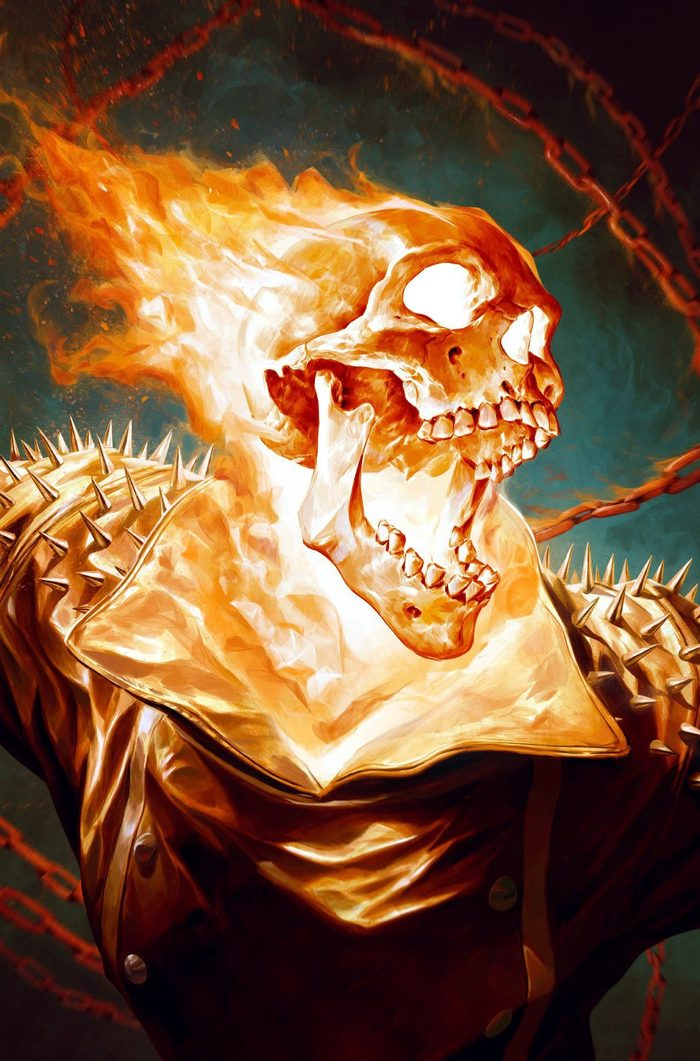
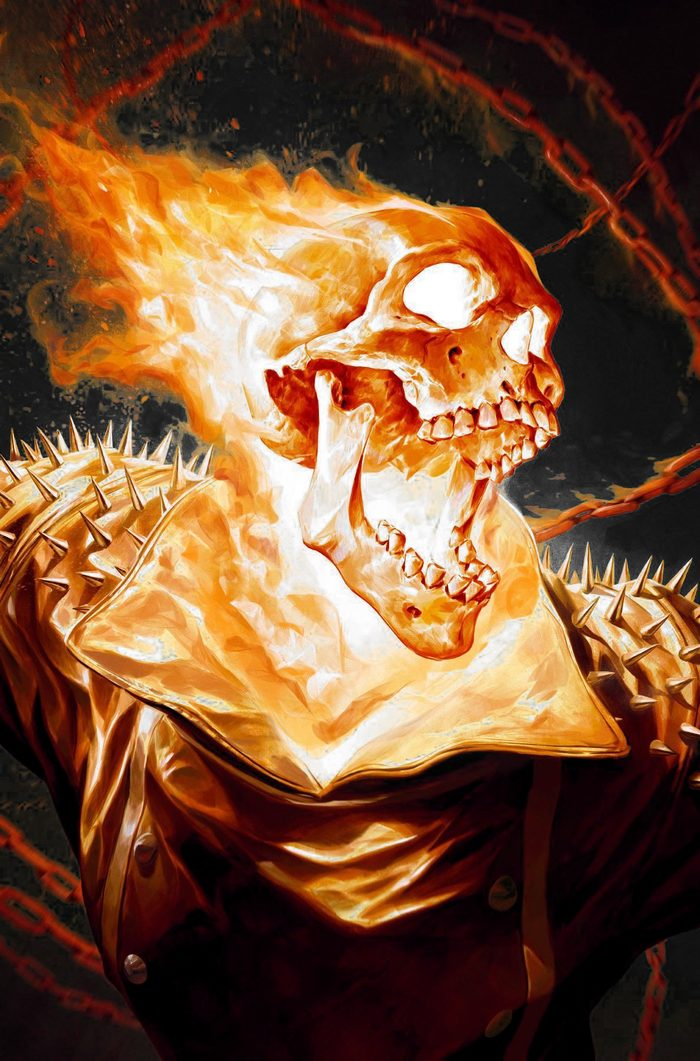
Ghost Rider poster: turn the teal background black (#56)
The poster arrived as a teal-green smoke field behind the burning skull,
which fought the pitch-black plate under it -- the plate read as a panel
stuck on a green picture rather than as the picture continuing.

tools/deteal.py neutralises it. The subject is warm (fire, red chains,
brown jacket: R dominates) and the background is cool (G and B meet or
beat R), so a continuous weight on max(G,B)-R separates them with no hue
band to speckle at the flame's edge, and those pixels are pulled to a
neutral grey at their own min channel -- a true desaturation, which kills
an olive as well as a teal. Darkening is gated on brightness because the
white-hot core of the flame is near-neutral and gets caught by the same
weight; without the gate it punches grey holes through the fire.

Art/covers/ keeps the untouched original, so `adopt` on it would undo
this. CLAUDE.md says so beside the logo flame recolour, which has the
same hazard.

Claude-Session: https://claude.ai/code/session_01K3DzxqYWzY1BmpvRcMUyAR

diff --git a/tools/deteal.py b/tools/deteal.py
@@ -1,0 +1,106 @@
+#!/usr/bin/env python3
+"""Take the cool colour cast out of a poster's background.
+
+Written for the Ghost Rider poster, whose background is a teal-green smoke
+field behind an orange figure -- the user asked for that field to read black,
+which the pitch-black plate under it already does.
+
+    python3 tools/deteal.py ghost-rider "Art/covers/Ghost Rider.jpg"
+    python3 tools/deteal.py ghost-rider "Art/covers/Ghost Rider.jpg" --dark 0.7
+
+It writes Art/Heroes/<hero id>.jpg through covers.save_cover, exactly as
+`fetch_hero_art.py adopt` does, so the result is sized like every other image
+on the site.  **The source in Art/covers/ is left untouched** -- that folder is
+the archive of originals -- which means `adopt` on the same file will put the
+teal straight back.  Re-run this instead.
+
+How it works, and why not the obvious way:
+
+The first attempt classified a pixel by HUE, blanking anything in a teal band.
+That fails badly where the smoke meets the flame: hue is unstable at low
+saturation and wraps, so the band edge speckles, and a steep darkening curve
+turns the speckle into a hard-edged black blob.  Rendered, it looks like a
+tear in the picture.
+
+What works is a continuous test with no branches in it.  The subject is warm
+(fire, red chains, a brown jacket: R dominates) and the background is cool
+(G and B meet or beat R), so
+
+    w = clip((max(G,B) - R + 18) / 20)
+
+is 0 on anything warm, 1 on anything cool, and slides smoothly between -- no
+hue, no threshold, no wraparound.  Those pixels are then pulled to a neutral
+grey at their own MIN channel, which is a true desaturation: it kills a teal
+(G,B > R) and an olive (G > R > B) alike, where capping G and B at R leaves the
+olive behind as a yellow tint.
+
+Darkening is gated on brightness (`gate`) and that gate is load-bearing.  The
+white-hot core of the flame is near-neutral, so `w` catches it too -- dimming it
+punches grey holes through the fire.  Only genuinely dark pixels are dimmed.
+
+Needs Pillow and numpy.
+"""
+import argparse, os, sys
+
+HERE = os.path.dirname(os.path.abspath(__file__))
+ROOT = os.path.dirname(HERE)
+
+LO, HI  = -18.0, 2.0     # max(G,B)-R ramp: warm subject -> cool background
+GATE    = (160.0, 60.0)  # dim only pixels whose brightest channel is below this
+DARK    = 0.50           # what a fully cool, fully dark pixel is scaled to
+
+
+def deteal(im, dark=DARK):
+    import numpy as np
+    a = np.asarray(im.convert("RGB")).astype(np.float32)
+    r, g, b = a[:, :, 0], a[:, :, 1], a[:, :, 2]
+    mn = np.minimum(np.minimum(r, g), b)
+    mx = np.maximum(np.maximum(r, g), b)
+    w    = np.clip((np.maximum(g, b) - r - LO) / (HI - LO), 0, 1)
+    gate = np.clip((GATE[0] - mx) / GATE[1], 0, 1)
+    grey = np.stack([mn * (1 - w * gate * (1 - dark))] * 3, 2)
+    out  = a * (1 - w[:, :, None]) + grey * w[:, :, None]
+    from PIL import Image
+    return Image.fromarray(np.clip(out, 0, 255).astype(np.uint8))
+
+
+def main():
+    p = argparse.ArgumentParser(description=__doc__,
+                                formatter_class=argparse.RawDescriptionHelpFormatter)
+    p.add_argument("hero_id")
+    p.add_argument("image")
+    p.add_argument("--dark", type=float, default=DARK,
+                   help="scale a fully cool dark pixel to this (default %.2f; "
+                        "1.0 desaturates without dimming)" % DARK)
+    p.add_argument("--out", help="write the full-size result here instead of "
+                                 "normalising into Art/Heroes/")
+    a = p.parse_args()
+    try:
+        from PIL import Image
+        import numpy  # noqa: F401
+    except ImportError:
+        sys.exit("needs Pillow and numpy:  pip install Pillow numpy")
+    if not os.path.exists(a.image):
+        sys.exit("no such image: %s" % a.image)
+
+    sys.path.insert(0, HERE)
+    import fetch_hero_art, covers
+    if a.hero_id not in fetch_hero_art.PICKS:
+        sys.exit("unknown hero id %r\nknown: %s"
+                 % (a.hero_id, ", ".join(fetch_hero_art.PICKS)))
+
+    im = deteal(Image.open(a.image), a.dark)
+    if a.out:
+        im.save(a.out, quality=93)
+        print("wrote %s  (%dx%d)" % (a.out, *im.size))
+        return
+    covers.ART = fetch_hero_art.ART
+    rel, size = covers.save_cover(im, a.hero_id)
+    print("wrote %s  (%dx%d, %.0f KB)"
+          % (rel, size[0], size[1], os.path.getsize(os.path.join(ROOT, rel)) / 1024))
+    print("Art/covers/ still holds the untouched original -- `adopt` on it "
+          "would undo this.")
+
+
+if __name__ == "__main__":
+    main()

diff --git a/CLAUDE.md b/CLAUDE.md
@@ -1006,6 +1006,25 @@ The original amber file is not kept beside it — `Art/Logos/` holds one file pe
 subject — but git history has it, and so does the commit that first normalised
 it.
 
+**The Ghost Rider poster's background is recoloured too, and the same warning
+applies.** As supplied it is a teal-green smoke field behind the burning skull,
+which fought the pitch-black plate under it — the plate read as a panel stuck
+on the bottom of a green picture rather than as the picture continuing. At the
+user's request the teal is now neutral black smoke: fire, embers and the red
+chains are untouched, and the art runs into the plate. `tools/deteal.py` does
+it, and it is written down there rather than here because the *how* is the
+interesting part — a hue band speckles where the smoke meets the flame, and a
+darkening pass that is not gated on brightness punches grey holes through the
+white-hot core.
+
+`Art/covers/Ghost Rider.jpg` is still the untouched original, because that
+folder is the archive. So **`fetch_hero_art.py adopt ghost-rider` on it would
+put the teal straight back** — re-run `deteal.py` instead:
+
+```bash
+python3 tools/deteal.py ghost-rider "Art/covers/Ghost Rider.jpg"
+```
+
 **Silver Surfer's plate was black for a day and is now dark stone grey-blue**
 (`74,86,102` → `28,34,44`), at the user's request. The black version did work,
 in the sense that the poster is chrome on deep space and the plate read as more
@@ -1904,6 +1923,12 @@ rule on any future run, so the bad links cannot come back.
   cover and why, `SUPPLIED` lists every subject and it will not overwrite one
   without `--replace`. Nothing is generated from it — the `cover` field in
   `HEROES` is hand-written — so a new poster is an edit in both places.
+- `deteal.py` — takes the cool colour cast out of a poster and writes the
+  result into `Art/Heroes/<id>.jpg` through the same `covers.save_cover`
+  downscale `adopt` uses. Written for the Ghost Rider poster's teal background;
+  `--dark` sets how far the neutralised pixels are dimmed (1.0 desaturates
+  without dimming), `--out` writes the full-size result instead. Needs Pillow
+  and numpy.
 - `banners.py` — the above-the-fold banner art. `add <key> <image>` normalises
   one to 2400px/q82 into `Art/Banners/<key>.jpg`; `add-folder <dir>` matches a
   whole folder against the keys by filename; `audit` lists what is there
